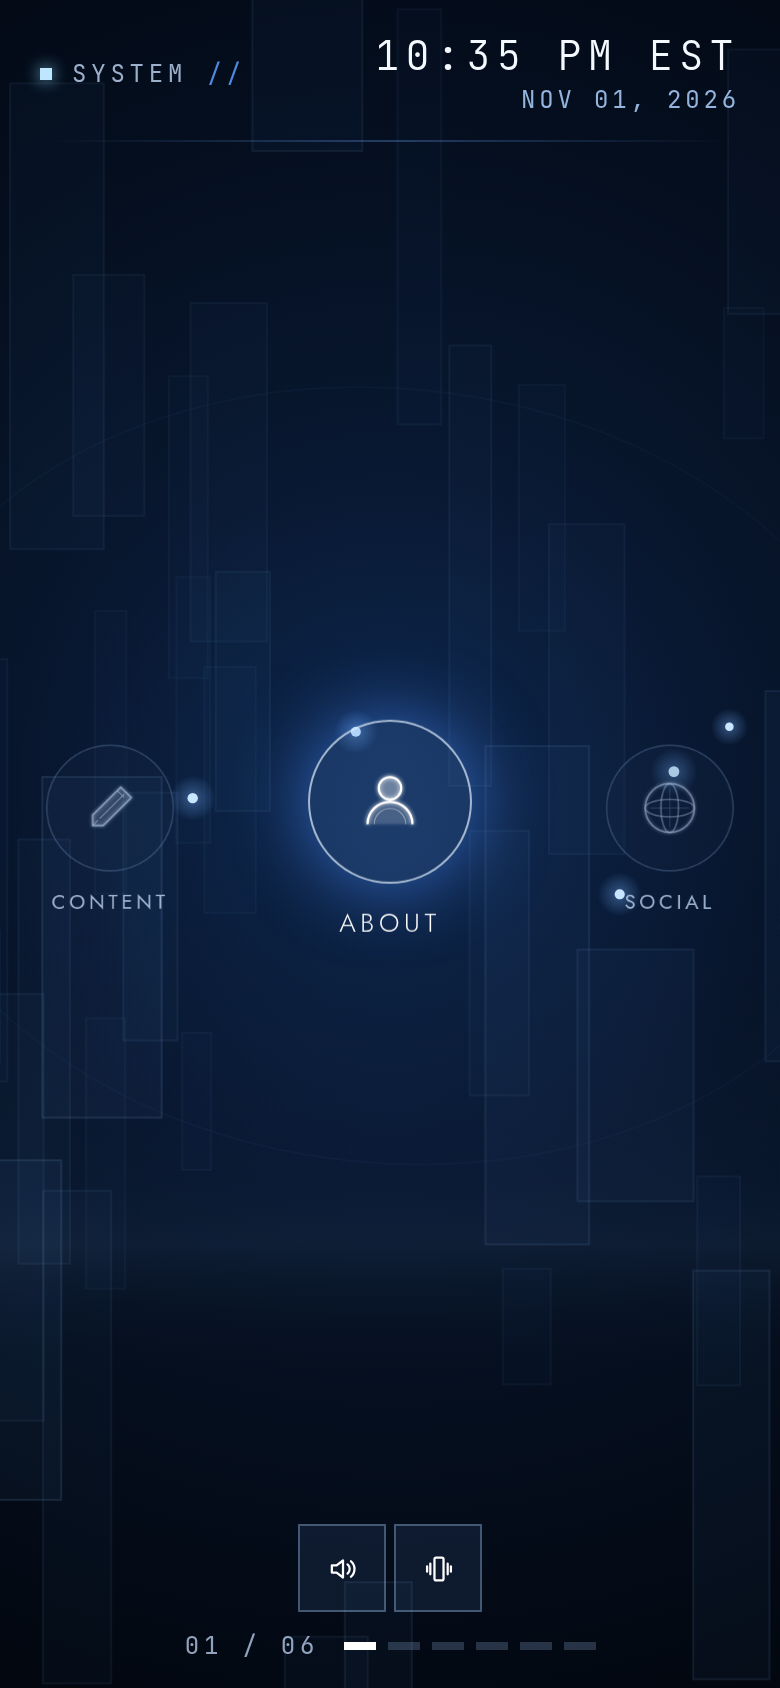
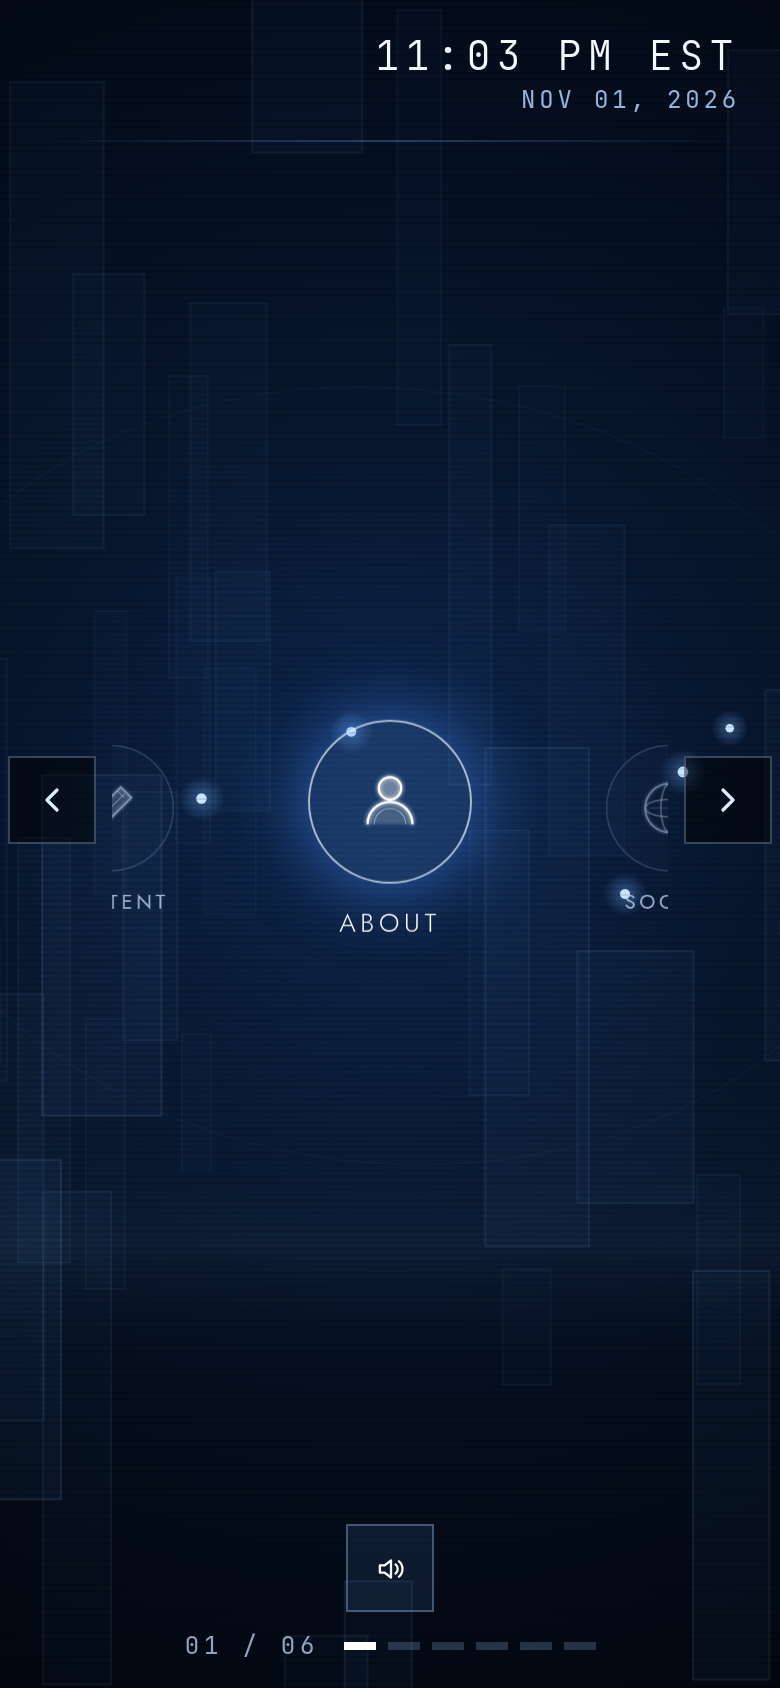
docs: refresh menu screenshots

diff --git a/docs/implementation-log.md b/docs/implementation-log.md
@@ -245,6 +245,6 @@ Headless Chrome against the production preview at 1440×900 (keyboard/mouse) and
 - **Sound root cause — Done.** The old `SoundManager.play()` bailed unless the context was already `running`, while `Interaction.emitSound()` only scheduled in that same state and kept a single pending slot that the cursor event overwrote with confirm. On a phone the context starts suspended and `resume()` settles after the gesture events, so every menu event was dropped. Now `SoundManager.ts:48,320-326` schedules into a ready context even while it is resuming, `Interaction.ts:105-121` plays immediately and asks for unlock in the same activation, the master is 0.9 with a compressor and higher per-voice gains, and sound still defaults on. **Guide:** Stage Show's poster-frame first touch; Family Values' delight/fluidity; WCAG 1.4.2.
 - **Motion — Done.** No toggle exists (`components/SystemToggles.tsx:93-117` has sound and haptics only); `utils/preferences.ts:22-33` clears any legacy stored `motion`, and `App.tsx:39-43` plus `MainMenu.tsx` derive animation solely from `prefers-reduced-motion`. At defaults the carousel uses `transform 320ms / opacity 220ms` on `cubic-bezier(0.22, 1, 0.36, 1)` and slides on swipe, tap and arrow. **Guide:** WCAG 2.3.3; Family Values' fluidity; PS2 fidelity.
 - **Helper text — Done.** Visible helper/explanatory copy removed by file: `BootSequence.tsx` ("Tap anywhere to start", "Click or press any key", "System ready"); `ContentScreen.tsx` (empty-state "Try a different search…", "Return to the main menu…", all keycap/touch legends); `ContentLists.tsx` ("View post" fallback); `EmptyState.tsx` ("Empty"/"Error" eyebrow and message paragraph); `ErrorBoundary.tsx` ("Something interrupted this view…"); `EssayReader.tsx` ("Essay · date · N min read", "N sections", "Newer/Older essay" eyebrows); `HelpBar.tsx` (all visible keycaps/touch wording, screen-reader sentence kept); `NotFoundScreen.tsx` ("The link may be mistyped…", HelpBar touch/keys); `OfflineNotice.tsx` ("Back online." / "Offline…"); `SystemToggles.tsx` (title tooltips); `BookScreen.tsx` (lead sentence and full affiliate disclosure, replaced by "Affiliate link"); `PortfolioScreen.tsx` (lightbox alt caption, project descriptions/tags, `1 / N` counter); `SocialScreen.tsx` ("Fastest route", reply-time and press notes); `WorkScreen.tsx` ("YYYY — now · N positions", "N roles", "Show/Hide N roles"); `AboutScreen.tsx` ("Dedicated to advancing individual sovereignty through cryptography."). Earlier content copy (counts, "Show more …", "Latest …", excerpts, read times, post metrics, tutorial outcomes, More/View affordances) was removed in the same pass. **Guide:** Stage Show's word budget and "real words only where they carry meaning"; Family Values' simplicity and gradual revelation; PS2 quiet index chrome.
-- **Verification — Done.** `npm run typecheck`, `npm run lint`, `npm run build`, `npm run budget` exit 0 (104.0 KB initial JS, 13.1 KB CSS gzip). `scripts/sound-check.py` passes with a real click under `document-user-activation-required`: 1 running context, 9 oscillators + 3 buffers on the power tap, +1 oscillator on a menu move, +7 on an open, zero page errors. `scripts/menu-touch-check.py` passes all checks; a touch-tap sweep opened all six tiles, and swipes on the header, slider, footer and lower body all changed section. `menu-phone-after.png` (780 × 1688) and `menu-desktop-after.png` (1440 × 900) were retaken from `vite preview` and checked by existence, byte size and dimensions only. Screenshots are 691,995 B and 789,341 B. **Guide:** Family Values' equal polish; WCAG 2.2.
+- **Verification — Done.** `npm run typecheck`, `npm run lint`, `npm run build`, `npm run budget` exit 0 (104.0 KB initial JS, 13.1 KB CSS gzip). `scripts/sound-check.py` passes with a real click under `document-user-activation-required`: 1 running context, 9 oscillators + 3 buffers on the power tap, +1 oscillator on a menu move, +7 on an open, zero page errors. `scripts/menu-touch-check.py` passes all checks; a touch-tap sweep opened all six tiles, and swipes on the header, slider, footer and lower body all changed section. `menu-phone-after.png` (780 × 1688) and `menu-desktop-after.png` (1440 × 900) were retaken from `vite preview` and checked by existence, byte size and dimensions only. Screenshots are 722,349 B and 786,622 B. **Guide:** Family Values' equal polish; WCAG 2.2.
 - **FINAL AUDIT — PASS.** One tap opens every tile (`MainMenu.tsx:375`; all six opened at 390×844). Swipe anywhere changes section (`MainMenu.tsx:316`; header/footer tested). No centre selected panel (`MainMenu.tsx:348-414`; no `.menu-panel`/selected-panel selector). No centre arrow squares on touch is superseded by item 5 — edge chevrons only (`MainMenu.tsx:417-435`). No motion toggle (`SystemToggles.tsx:93-117`). Haptics on change/open with iOS switch and Android vibrate (`MainMenu.tsx` `moveBy`/`openAt`; `HapticManager.ts:7-8,72`). Sound unlocks on first touch and first tap plays (`Interaction.ts:105-121`; `SoundManager.ts:320`). Satoshi Pacioli tile uses the same square frame and 0.5 rem inset (`PortfolioScreen.tsx:257-265`; `styles/app.css:2109-2127`; 308 px wide, 0.5 rem padding). Podcast play buttons identical (`ContentLists.tsx:101,119`; `styles/app.css:2700`; eight measured 32×32 with same fill/border/radius). No helper text or counts on content tabs (`ContentScreen.tsx:582-586`; visible-text sweep). No "TAP TO OPEN"/"SWIPE TO BROWSE" (grep and rendered text). No "NOW" badges (`AboutScreen.tsx:58` shows only the role line). No "PERSONAL SYSTEM"/"SYSTEM //" (`MainMenu.tsx:337-343`; grep). ₿ in logo and favicon (`Wordmark.tsx:40-42`; `favicon.svg:7-9`; PNGs 32/96/192/512/180/256). Toggles and counter centred at the bottom (`styles/app.css:783-796`; centres 195 px phone, 720 px desktop). Arrows at the screen edges on phone and desktop (`MainMenu.tsx:417-435`; x 4 / 342 on 390 px, x 4 / 1,388 on 1,440 px, 44/48 px). Sound counts above. Tile slider animates at defaults (`MainMenu.tsx` `MOVE_TRANSITION`; mid-transition `matrix3d` at 90 ms; `data-motion="auto"`).
 - **Stage Show source — Partial.** `.agents/skills/stageshow/SKILL.md` is absent from this checkout (only `kit/` and `examples/`), so its rules were applied from the principles recorded in `docs/design-review.md`; `.agents/skills/family-values/SKILL.md` is present and was applied directly.
